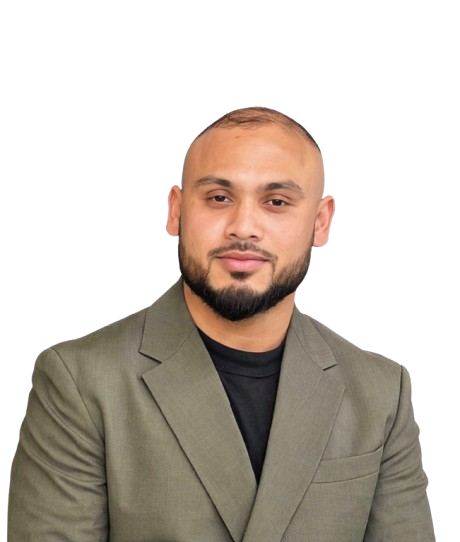
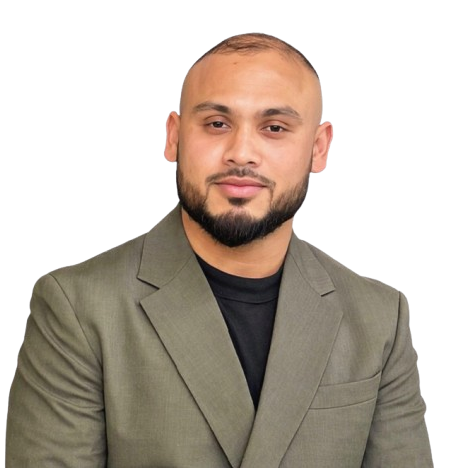
update

diff --git a/src/pages/About.tsx b/src/pages/About.tsx
@@ -8,6 +8,124 @@ import { Label, SectionHeader } from '../components/ui/Section';
 import { ABOUT } from '../content/about';
 import { usePageMeta } from '../lib/usePageMeta';
 
+// Team portrait imports
+import visionImg from '../media/the_vision.png';
+import partnerImg from '../media/the_partner.png';
+import coderImg from '../media/the_coder.png';
+
+/* ─── Team data ────────────────────────────────────────────────────────────── */
+const CEO = {
+  name: 'Rupak Kanti Deb',
+  title: 'Chief Executive Officer',
+  badge: 'CEO',
+  persona: 'The Vision',
+  photo: visionImg,
+  email: 'ceo.rupak@studyinfo.app',
+  phone: '+880 1727-091557',
+  bio: 'Rupak built StudyInfo to give every agency no matter where they operate a trusted, anonymous route to place students at the right university.',
+};
+
+const PARTNER = {
+  name: 'Sultan Ahmed',
+  title: 'Director',
+  badge: 'Director',
+  persona: 'The Partner',
+  photo: partnerImg,
+  email: 'director.sultan@studyinfo.app',
+  phone: '+44 7405 120621',
+  bio: 'Based in the UK, Sultan leads our institutional partnerships and ensures every university in the network is verified, current, and ready to welcome your students.',
+};
+
+const CTO = {
+  name: 'Khandokar Rifat Muhtasim',
+  title: 'Chief Technology Officer',
+  badge: 'CTO',
+  persona: 'The Coder',
+  photo: coderImg,
+  email: 'cto.rifat@studyinfo.app',
+  phone: '+880 1814-297793',
+  bio: 'Rifat designed the file-routing engine, document-check pipeline, and real-time case-tracking system that keep every submission secure and every agency in sync.',
+};
+
+/* ─── Horizontal team card: photo left, content right ───────────────────────── */
+function TeamCard({
+  member,
+}: {
+  member: typeof CEO | typeof PARTNER | typeof CTO;
+}) {
+  return (
+    <article className="reveal group flex flex-col overflow-hidden rounded-2xl bg-surface ring-1 ring-line shadow-card sm:flex-row">
+
+      {/* ── Photo panel ── */}
+      <div className="relative h-96 w-full shrink-0 overflow-hidden sm:h-auto sm:w-56 md:w-64 lg:w-72">
+        <img
+          src={member.photo}
+          alt={member.name}
+          className="absolute inset-0 h-full w-full object-cover object-[center_10%] transition-transform duration-500 ease-out group-hover:scale-105"
+        />
+        {/* Mobile: bottom white gradient blend into card body */}
+        <div className="pointer-events-none absolute inset-x-0 bottom-0 h-32 bg-gradient-to-t from-white via-white/40 to-transparent sm:hidden" />
+        {/* Desktop: right-side white gradient dissolve into text panel */}
+        <div className="pointer-events-none absolute inset-y-0 right-0 hidden w-24 bg-gradient-to-r from-transparent to-white sm:block" />
+      </div>
+
+      {/* ── Right: name, badge, bio, contacts ── */}
+      <div className="group/content flex flex-1 flex-col justify-end gap-3 p-5 md:p-7">
+
+        {/* Badge — top-right */}
+        <span className="self-end inline-flex items-center rounded-full bg-accent-soft px-2.5 py-0.5 text-[11px] font-medium text-accent ring-1 ring-accent/20">
+          {member.badge}
+        </span>
+
+        {/* Persona label — large display title */}
+        <div className="mt-auto">
+          <div className="flex items-center gap-3">
+            {/* Thin accent bar */}
+            <span
+              className="block h-0.5 w-8 shrink-0 rounded-full bg-accent/50 transition-all duration-500 group-hover/content:w-12 group-hover/content:bg-accent"
+              aria-hidden="true"
+            />
+            <span className="font-mono text-[13px] font-bold uppercase tracking-[0.25em] text-accent transition-colors duration-300 group-hover/content:text-accent">
+              {member.persona}
+            </span>
+          </div>
+
+          {/* Name + title — spaced further below the persona label */}
+          <div className="mt-5">
+            <h3 className="text-[1.1rem] font-semibold leading-tight tracking-[-0.02em] text-ink">
+              {member.name}
+            </h3>
+            <p className="mt-0.5 text-[12.5px] text-ink-3">{member.title}</p>
+          </div>
+        </div>
+
+        {/* One-sentence bio */}
+        <p className="text-[13.5px] leading-relaxed text-ink-2">{member.bio}</p>
+
+        {/* Contact links */}
+        <div className="flex flex-col gap-1.5 border-t border-line pt-4">
+          <a
+            href={`mailto:${member.email}`}
+            className="inline-flex items-center gap-2 text-[12.5px] text-ink-3 transition-colors hover:text-accent"
+          >
+            <Icon name="mail" size={13} className="shrink-0 text-accent" />
+            <span className="break-all">{member.email}</span>
+          </a>
+          <a
+            href={`tel:${member.phone.replace(/\s/g, '')}`}
+            className="inline-flex items-center gap-2 text-[12.5px] text-ink-3 transition-colors hover:text-ink"
+          >
+            <Icon name="phone" size={13} className="shrink-0 text-ink-3" />
+            {member.phone}
+          </a>
+        </div>
+      </div>
+
+    </article>
+  );
+}
+
+/* ─── Page ──────────────────────────────────────────────────────────────────── */
 export function About() {
   usePageMeta();
   const { hero, problem, mission, vision, partnership } = ABOUT;
@@ -16,6 +134,7 @@ export function About() {
     <>
       <ProductHero label={hero.label} title={hero.title} lead={hero.lead} backdrop="network" />
 
+      {/* Problem */}
       <section className="py-20 md:py-28">
         <Container>
           <SectionHeader title={problem.title} text={problem.text} />
@@ -38,6 +157,7 @@ export function About() {
         </Container>
       </section>
 
+      {/* Mission + Vision */}
       <section className="py-20 md:py-28">
         <Container>
           <div className="grid gap-3 md:grid-cols-2">
@@ -45,20 +165,81 @@ export function About() {
               { label: 'Our mission', text: mission, tone: 'bg-tint-lavender ring-accent/15' },
               { label: 'Our vision', text: vision, tone: 'bg-subtle ring-line' },
             ].map((c) => (
-              <article key={c.label} className={`reveal flex min-h-[260px] flex-col justify-between gap-10 rounded-2xl p-7 ring-1 md:p-10 ${c.tone}`}>
+              <article
+                key={c.label}
+                className={`reveal flex min-h-[260px] flex-col justify-between gap-10 rounded-2xl p-7 ring-1 md:p-10 ${c.tone}`}
+              >
                 <h2 className="font-mono text-[12px] text-ink-3">{c.label}</h2>
-                <p className="text-[1.6rem] leading-[1.22] font-medium tracking-[-0.025em] md:text-[1.9rem]">{c.text}</p>
+                <p className="text-[1.6rem] leading-[1.22] font-medium tracking-[-0.025em] md:text-[1.9rem]">
+                  {c.text}
+                </p>
               </article>
             ))}
           </div>
         </Container>
       </section>
 
+      {/* ── Meet the Team ─────────────────────────────────────────────────────── */}
       <section className="py-20 md:py-28">
         <Container>
-          <SectionHeader label={<Label>{partnership.label}</Label>} title={partnership.title} text={partnership.text} />
+          {/* Section header */}
+          <div className="reveal mb-12 md:mb-16">
+            <p className="font-mono text-[12px] text-ink-3">The people</p>
+            <h2 className="mt-3 text-[2rem] font-semibold leading-tight tracking-[-0.028em] sm:text-[2.4rem]">
+              Meet the team
+            </h2>
+            <p className="mt-4 max-w-xl text-[17px] leading-relaxed text-ink-2">
+              StudyInfo is built and run by a focused team with deep roots in international education.
+              We are accessible, responsive, and genuinely invested in helping every agency that joins.
+            </p>
+          </div>
+
+          {/*
+            Layout (horizontal cards):
+              Row 1 → CEO left  |  Partner right   (2-col grid)
+              Row 2 → CTO spanning full width
+          */}
+          <div className="flex flex-col gap-4">
+
+            {/* Top row: CEO + Partner — side-by-side on desktop, stacked on mobile */}
+            <div className="grid gap-4 md:grid-cols-2">
+              <TeamCard member={CEO} />
+              <TeamCard member={PARTNER} />
+            </div>
+
+            {/* Bottom row: CTO full width */}
+            <TeamCard member={CTO} />
+
+          </div>
+
+          {/* Welcome note */}
+          <div className="reveal mt-12 rounded-2xl bg-tint-lavender p-7 ring-1 ring-accent/15 md:mt-16 md:p-10">
+            <p className="font-mono text-[12px] text-ink-3">A note from the founders</p>
+            <blockquote className="mt-4 text-[1.2rem] leading-[1.5] font-medium tracking-[-0.02em] text-ink md:text-[1.4rem]">
+              "StudyInfo exists because we kept running into the same wall: a student ready to apply, a university with a place, and no reliable, neutral way to get the file from one agency to the other. We built the network to be that bridge — anonymous so agencies trust it, transparent so students can track it, and commission-sharing so everyone has a reason to keep using it. Whether you hold students or universities, there is a place for you here."
+            </blockquote>
+            <div className="mt-6 flex flex-wrap items-center gap-6 border-t border-accent/15 pt-6 text-[13px] text-ink-3">
+              <span><span className="font-medium text-ink">Rupak Kanti Deb</span> · CEO</span>
+              <span><span className="font-medium text-ink">Sultan Ahmed</span> · Director</span>
+            </div>
+          </div>
+        </Container>
+      </section>
+
+      {/* Partnership */}
+      <section className="py-20 md:py-28">
+        <Container>
+          <SectionHeader
+            label={<Label>{partnership.label}</Label>}
+            title={partnership.title}
+            text={partnership.text}
+          />
           <div className="mt-12 md:mt-16">
-            <SpotlightPanel title="Exclusive license" text="Tablab Research licenses StudyInfo exclusively to Global Desire Education." inner="max-w-[900px]">
+            <SpotlightPanel
+              title="Exclusive license"
+              text="Tablab Research licenses StudyInfo exclusively to Global Desire Education."
+              inner="max-w-[900px]"
+            >
               <PartnershipVisual />
             </SpotlightPanel>
           </div>
